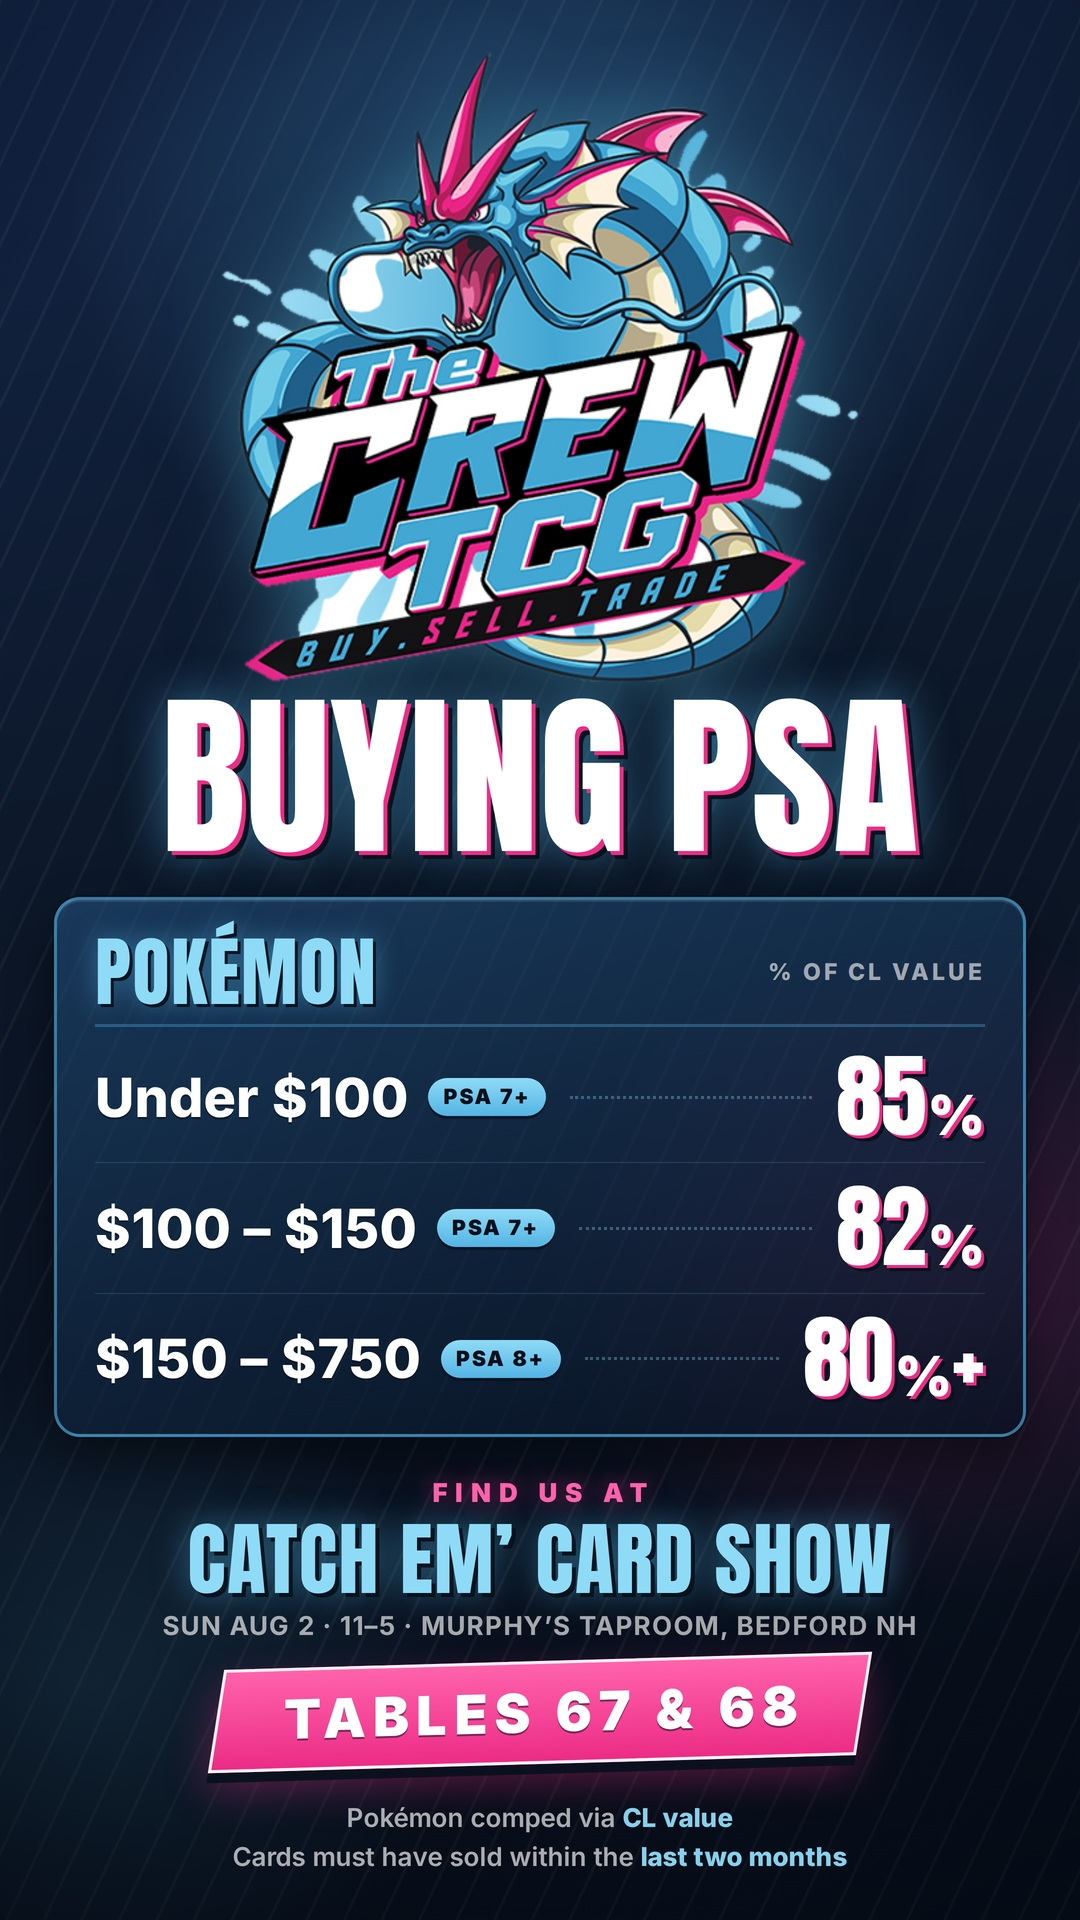
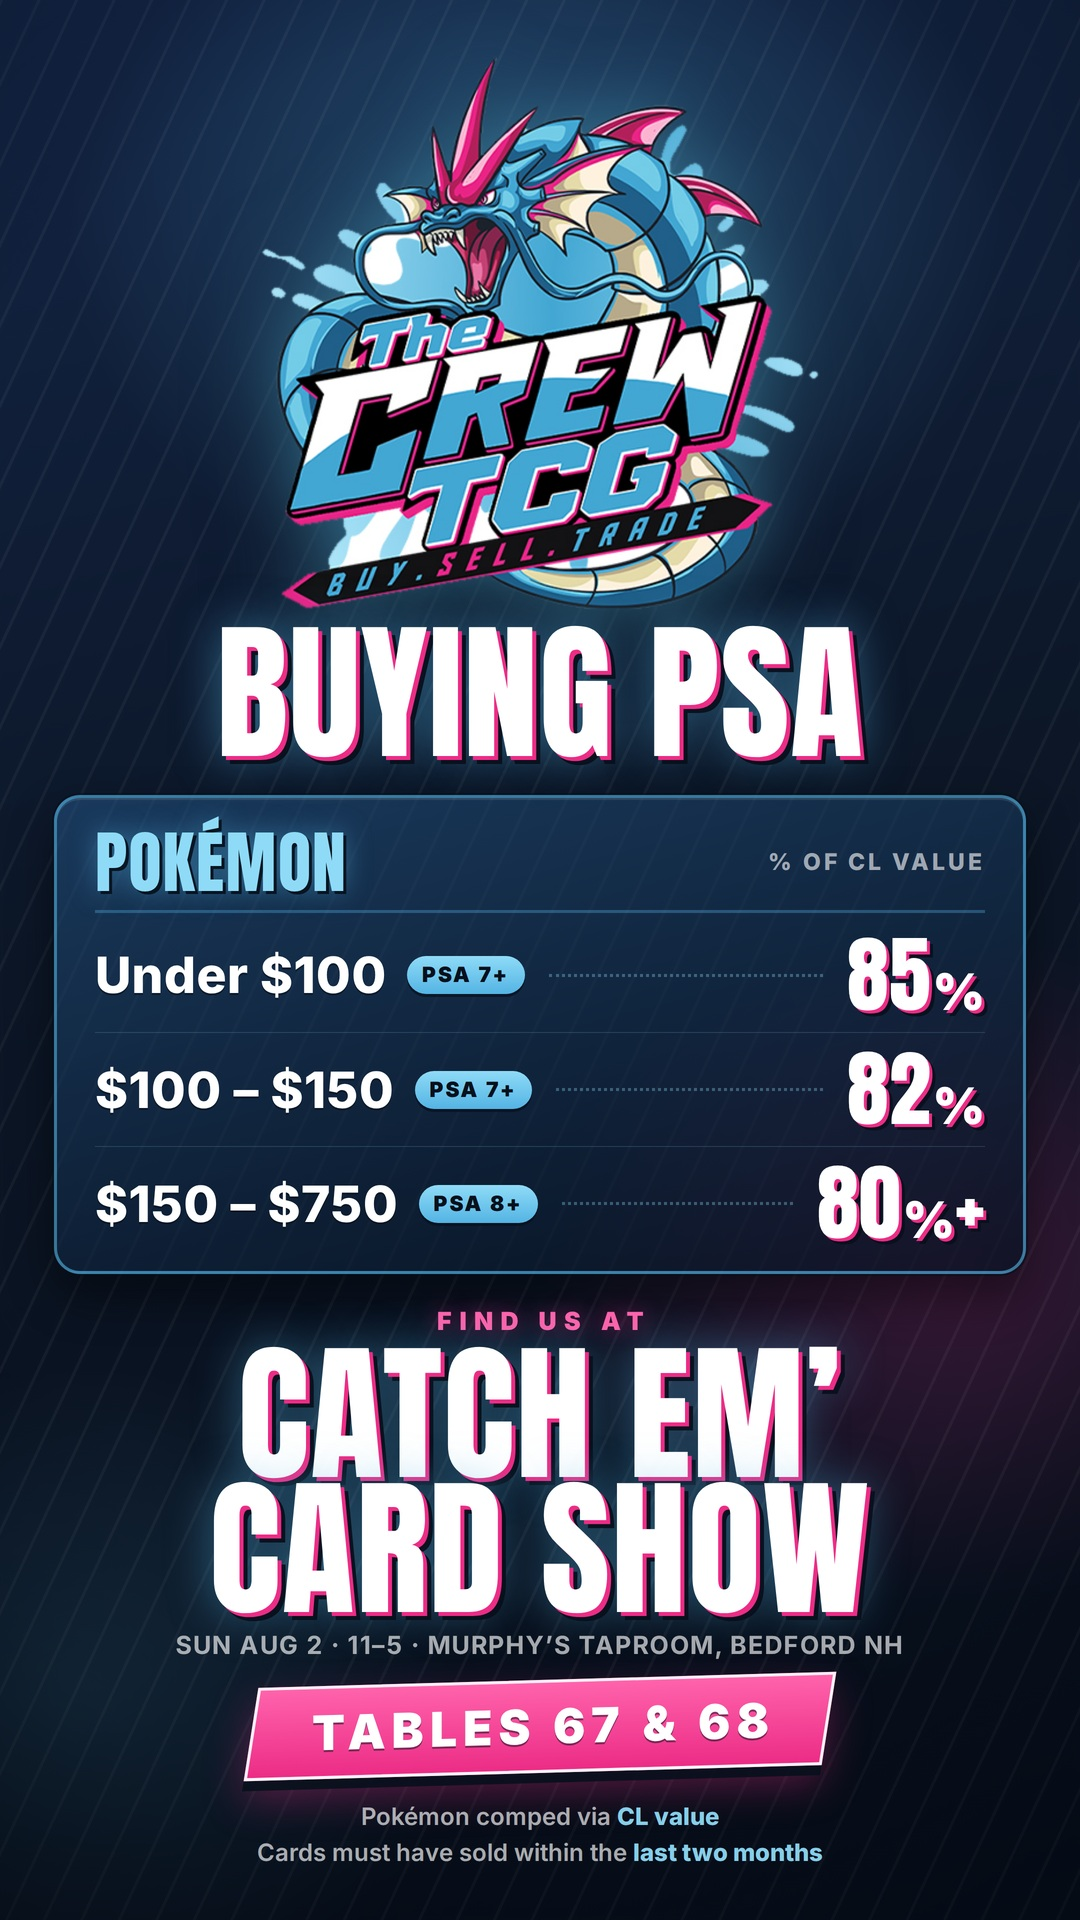
Make the show name the dominant element on the buying rates ad
Scales "Catch Em' Card Show" from an 80px single line to a 150px
two-line block and moves it up a weight class into the white-with-pink
-offset treatment previously reserved for the headline.

- Show name block is now 270px tall against the headline's 129px, so
  it carries roughly twice the visual mass
- Eases the logo to 560px and the headline to 150px, and tightens the
  rate card, to buy the vertical space
- All elements remain inside the story safe area

Claude-Session: https://claude.ai/code/session_01GrrccXG3rbm8dyPJ87oBq8

diff --git a/ads/crew-tcg-psa-buying-rates.html b/ads/crew-tcg-psa-buying-rates.html
@@ -44,7 +44,7 @@
 
 /* ---------- logo ---------- */
 .logo{
-  width:640px;display:block;
+  width:560px;display:block;
   filter:drop-shadow(0 0 34px rgba(84,180,228,.55)) drop-shadow(0 14px 26px rgba(0,0,0,.55));
 }
 
@@ -56,7 +56,7 @@
   text-shadow:0 0 22px rgba(236,44,134,.65);
 }
 .headline{
-  font-family:'Anton',sans-serif;font-size:176px;line-height:.86;letter-spacing:.005em;
+  font-family:'Anton',sans-serif;font-size:150px;line-height:.86;letter-spacing:.005em;
   text-transform:uppercase;color:#fff;margin-top:18px;
   text-shadow:
      4px 4px 0 var(--pink),
@@ -68,22 +68,22 @@
   background:linear-gradient(180deg,var(--pink-lt),var(--pink));
   border:3px solid rgba(255,255,255,.92);
   box-shadow:0 10px 0 rgba(8,16,28,.92), 0 18px 40px rgba(236,44,134,.34);
-  padding:16px 56px;
+  padding:14px 50px;
 }
 .banner span{
   display:block;transform:skewX(9deg);
-  font-weight:900;font-size:54px;letter-spacing:.13em;text-indent:.17em;
+  font-weight:900;font-size:48px;letter-spacing:.13em;text-indent:.17em;
   text-transform:uppercase;color:#fff;text-shadow:0 2px 0 rgba(8,16,28,.5);
 }
 
 /* ---------- rate cards ---------- */
-.cards{width:100%;margin-top:44px;display:flex;flex-direction:column;gap:18px}
+.cards{width:100%;margin-top:38px;display:flex;flex-direction:column;gap:18px}
 .card{
   background:linear-gradient(165deg,rgba(36,84,132,.56),rgba(8,18,34,.72));
   border:3px solid rgba(84,180,228,.62);
   border-radius:26px;
   box-shadow:0 0 0 2px rgba(8,16,28,.55), 0 22px 46px rgba(0,0,0,.46), inset 0 2px 0 rgba(255,255,255,.10);
-  padding:34px 38px 30px;
+  padding:30px 38px 26px;
 }
 .card-head{
   display:flex;align-items:center;justify-content:space-between;
@@ -91,7 +91,7 @@
   border-bottom:3px solid rgba(84,180,228,.34);
 }
 .card-title{
-  font-family:'Anton',sans-serif;font-size:76px;line-height:1;text-transform:uppercase;
+  font-family:'Anton',sans-serif;font-size:68px;line-height:1;text-transform:uppercase;
   color:var(--blue-lt);letter-spacing:.02em;
   text-shadow:3px 3px 0 rgba(8,16,28,.92), 0 0 26px rgba(84,180,228,.5);
 }
@@ -100,10 +100,10 @@
   color:rgba(255,255,255,.62);
 }
 
-.row{display:flex;align-items:center;gap:20px;padding:22px 0;border-bottom:1px solid rgba(143,219,247,.16)}
+.row{display:flex;align-items:center;gap:20px;padding:18px 0;border-bottom:1px solid rgba(143,219,247,.16)}
 .row:last-child{border-bottom:0;padding-bottom:2px}
 .row-label{
-  font-weight:800;font-size:54px;letter-spacing:.01em;color:#fff;white-space:nowrap;
+  font-weight:800;font-size:50px;letter-spacing:.01em;color:#fff;white-space:nowrap;
   text-shadow:0 2px 0 rgba(8,16,28,.6);
 }
 .chip{
@@ -114,7 +114,7 @@
 }
 .dots{flex:1;height:0;border-bottom:3px dotted rgba(143,219,247,.34);margin:0 4px}
 .pct{
-  font-family:'Anton',sans-serif;font-size:92px;line-height:.9;color:#fff;white-space:nowrap;
+  font-family:'Anton',sans-serif;font-size:84px;line-height:.9;color:#fff;white-space:nowrap;
   text-shadow:3px 3px 0 var(--pink), 6px 6px 0 rgba(8,16,28,.9);
 }
 /* Anton's percent glyph reads as "%o" at display size — set it in Inter instead */
@@ -125,27 +125,27 @@
 
 /* ---------- show / table callout ---------- */
 .findus{
-  margin-top:40px;
-  font-weight:900;font-size:26px;letter-spacing:.30em;text-indent:.30em;
+  margin-top:32px;
+  font-weight:900;font-size:25px;letter-spacing:.30em;text-indent:.30em;
   text-transform:uppercase;color:var(--pink-lt);
   text-shadow:0 0 22px rgba(236,44,134,.6);
 }
 .showname{
-  margin-top:12px;text-align:center;
-  font-family:'Anton',sans-serif;font-size:80px;line-height:.98;letter-spacing:.015em;
-  text-transform:uppercase;color:var(--blue-lt);
-  text-shadow:4px 4px 0 rgba(8,16,28,.92), 0 0 34px rgba(84,180,228,.55);
+  margin-top:10px;text-align:center;
+  font-family:'Anton',sans-serif;font-size:150px;line-height:.90;letter-spacing:.01em;
+  text-transform:uppercase;color:#fff;
+  text-shadow:4px 4px 0 var(--pink), 8px 8px 0 rgba(8,16,28,.95), 0 0 44px rgba(84,180,228,.5);
 }
 .venue{
-  margin-top:12px;text-align:center;
-  font-weight:700;font-size:26px;letter-spacing:.05em;
+  margin-top:14px;text-align:center;
+  font-weight:700;font-size:25px;letter-spacing:.05em;
   text-transform:uppercase;color:rgba(255,255,255,.64);
 }
 
 /* ---------- footer ---------- */
 .fine{
-  margin-top:34px;width:100%;text-align:center;
-  font-weight:600;font-size:26px;line-height:1.5;color:rgba(255,255,255,.66);
+  margin-top:26px;width:100%;text-align:center;
+  font-weight:600;font-size:24px;line-height:1.5;color:rgba(255,255,255,.66);
 }
 .fine b{color:rgba(143,219,247,.95);font-weight:800}
 
@@ -185,7 +185,7 @@
   </div>
 
   <div class="findus">Find Us At</div>
-  <div class="showname">Catch Em&#8217; Card Show</div>
+  <div class="showname">Catch Em&#8217;<br>Card Show</div>
   <div class="venue">Sun Aug 2 &middot; 11&ndash;5 &middot; Murphy&#8217;s Taproom, Bedford NH</div>
   <div class="banner"><span>Tables 67 &amp; 68</span></div>
 
